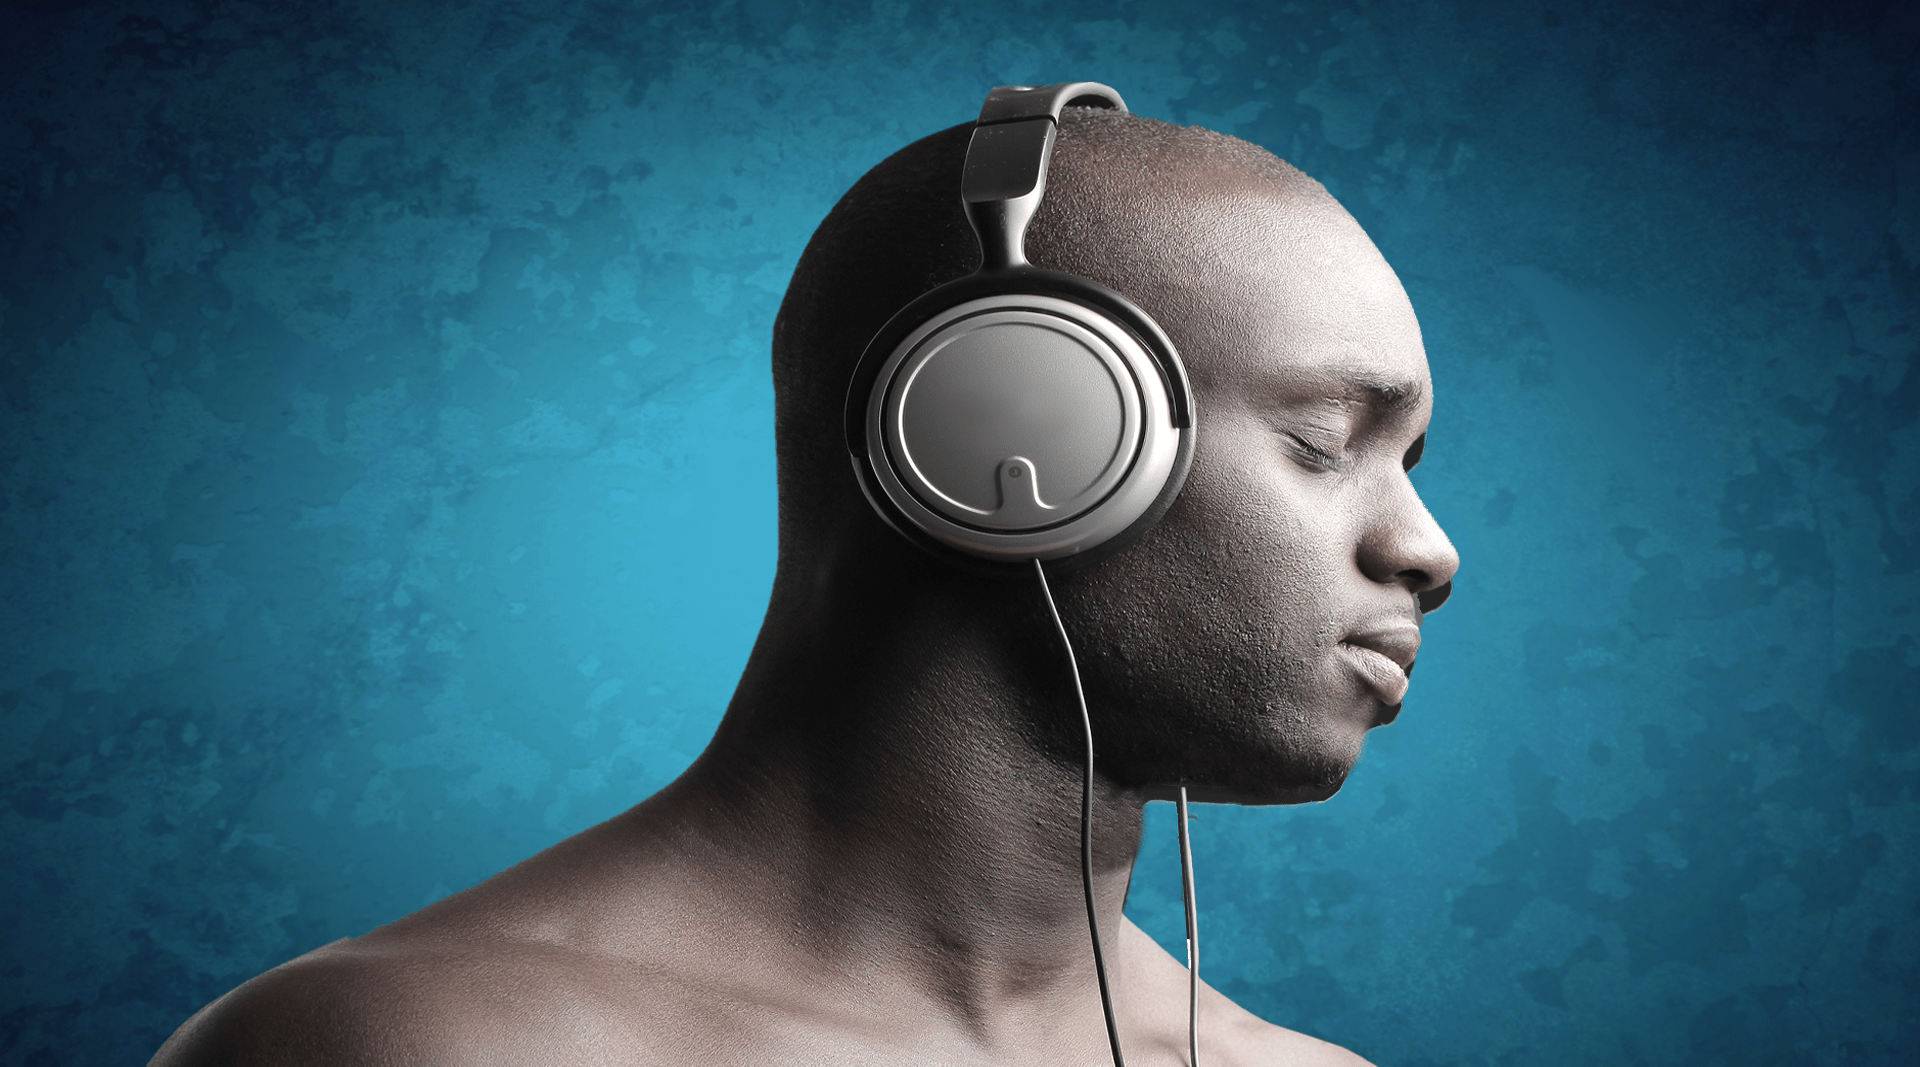
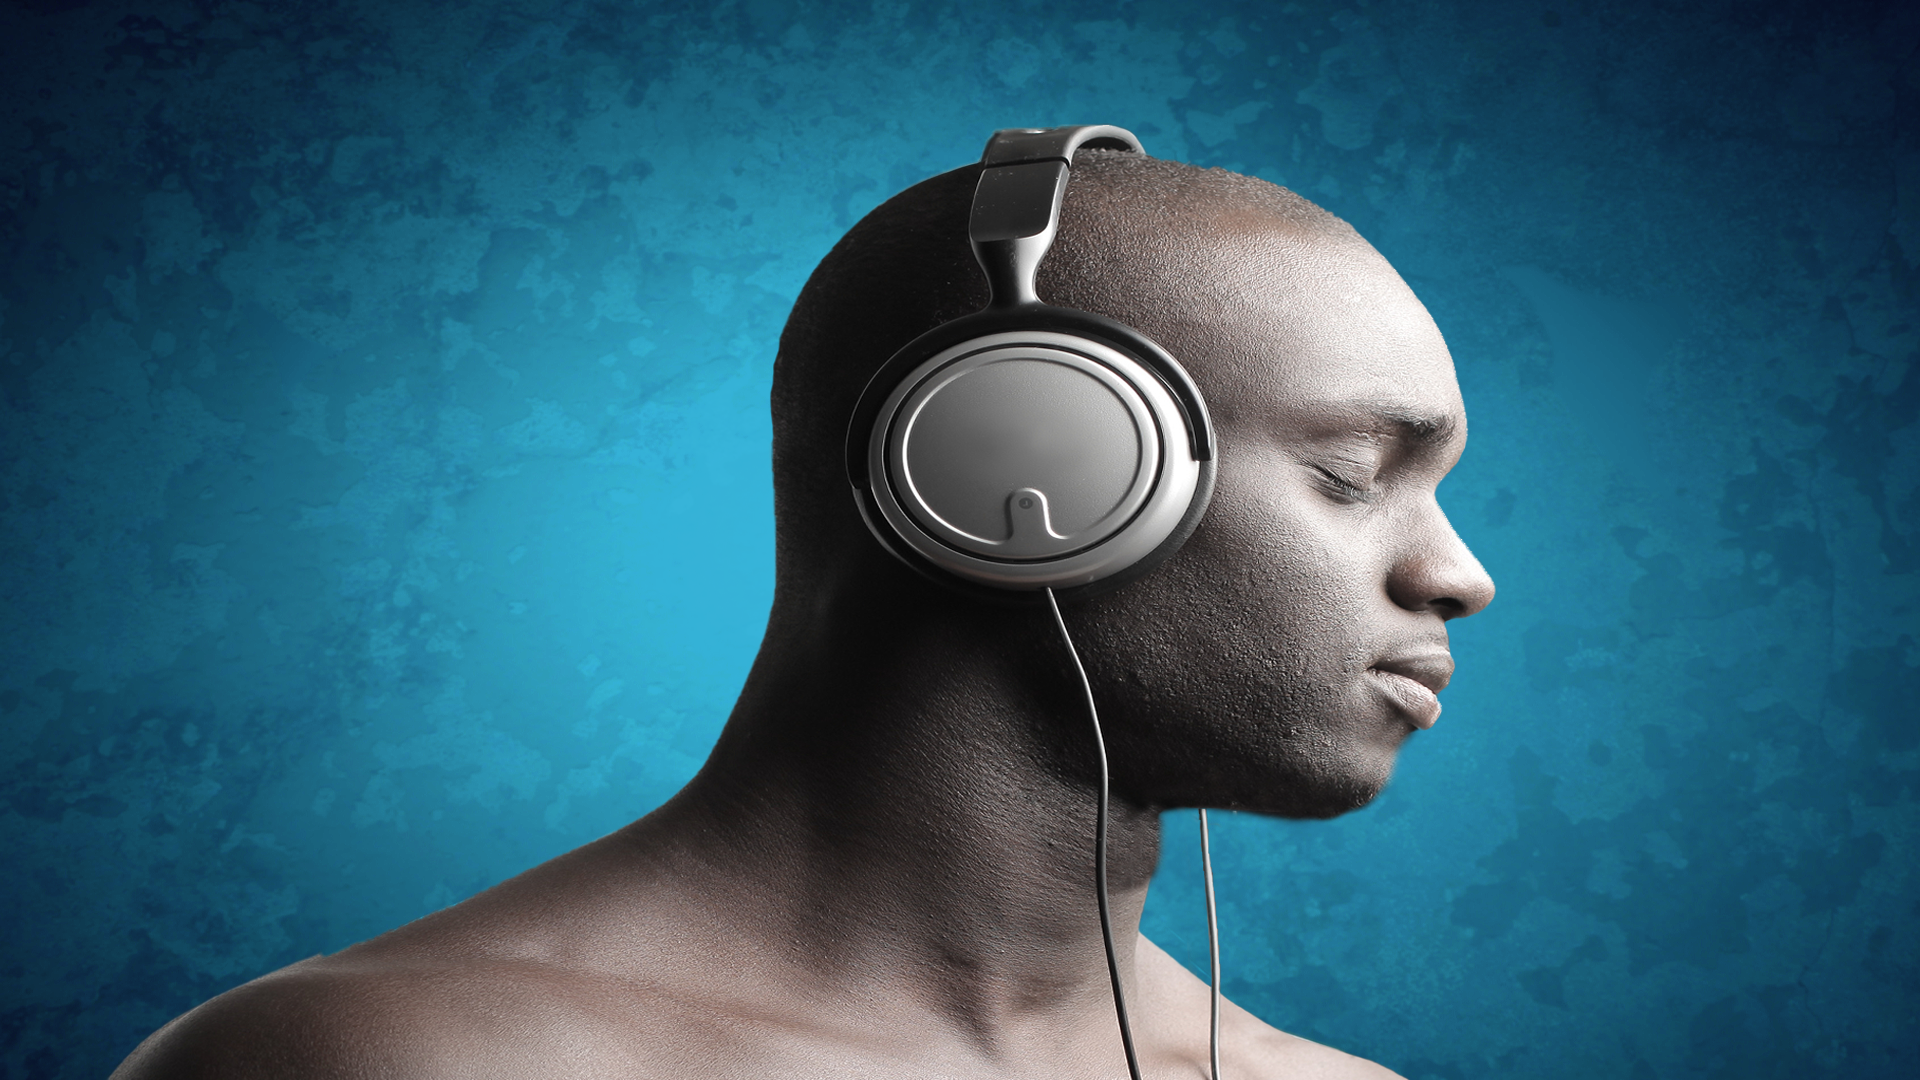
require fname on register, updated hero img

diff --git a/client/js/registerForm.jsx b/client/js/registerForm.jsx
@@ -16,6 +16,7 @@ class RegisterForm extends React.Component {
   }
   render() {
     // const form = document.getElementById("registerForm");
+    // todo require first name
     const onSubmitHandler = (evt) => {
       evt.preventDefault();
 
@@ -28,6 +29,8 @@ class RegisterForm extends React.Component {
           ...errState.errors,
           "Password must have a minimum of 6 characters.",
         ];
+      if (this.state.fname.length < 3)
+        errState.errors = [...errState.errors, "Please enter your first name."];
       if (errState.errors.length) return this.setState(errState);
       const submitFetch = async () =>
         //todo change url
@@ -40,7 +43,7 @@ class RegisterForm extends React.Component {
           body: JSON.stringify({
             email: this.state.regEmail,
             password: this.state.regPassword,
-            first_name: this.state.fname.length ? this.state.fname : null,
+            first_name: this.state.fname,
             last_name: this.state.lname.length ? this.state.lname : null,
           }),
         });
@@ -77,12 +80,13 @@ class RegisterForm extends React.Component {
         </div>
         <div className="name">
           <div>
-            <label htmlFor="fname">First Name</label>
+            <label htmlFor="fname">&#42;First Name</label>
             <input
               type="text"
               name="fname"
               onChange={onChangeHandler}
               value={this.state.fname}
+              required="true"
             />
           </div>
           <div>
@@ -101,6 +105,7 @@ class RegisterForm extends React.Component {
           name="regEmail"
           onChange={onChangeHandler}
           value={this.state.regEmail}
+          required="true"
         />
         <label htmlFor="regPassword">&#42;Password</label>
         <input
@@ -108,10 +113,11 @@ class RegisterForm extends React.Component {
           name="regPassword"
           onChange={onChangeHandler}
           value={this.state.regPassword}
+          required="true"
         />
         <button type="submit">
           <img src="../assets/half-man.png" alt="half-man" />
-          Create Your Account
+          CREATE YOUR ACCOUNT
         </button>
       </form>
     );

diff --git a/client/css/index/index.css b/client/css/index/index.css
@@ -20,24 +20,6 @@ p {
           box-shadow: #0d22339e 2em 3em 3.5em;
 }
 
-@media (max-width: 360px) {
-  .inspire {
-    background-size: 130% 100%;
-  }
-}
-
-@media (min-width: 361px) and (max-width: 480px) {
-  .inspire {
-    background-size: 130% 100%;
-  }
-}
-
-@media (min-width: 481px) and (max-width: 736px) {
-  .inspire {
-    background-size: 130% 100%;
-  }
-}
-
 @media (min-width: 737px) and (max-width: 980px) {
   .inspire {
     background-size: 130% 100%;
@@ -47,6 +29,24 @@ p {
 @media (min-width: 981px) and (max-width: 1280px) {
   .inspire {
     background-size: 130% 100%;
+  }
+}
+
+@media (max-width: 360px) {
+  .inspire {
+    background-image: url("../../assets/man_wearing_headphones-flat-mobile.png");
+  }
+}
+
+@media (min-width: 361px) and (max-width: 480px) {
+  .inspire {
+    background-image: url("../../assets/man_wearing_headphones-flat-mobile.png");
+  }
+}
+
+@media (min-width: 481px) and (max-width: 736px) {
+  .inspire {
+    background-image: url("../../assets/man_wearing_headphones-flat-mobile.png");
   }
 }
 
@@ -74,11 +74,59 @@ p {
   margin-bottom: 1em;
 }
 
+@media (max-width: 360px) {
+  .inspire ul li {
+    color: #00bdf5;
+    text-shadow: 2px 2px #0f495f;
+    font-weight: 700;
+  }
+}
+
+@media (min-width: 361px) and (max-width: 480px) {
+  .inspire ul li {
+    color: #00bdf5;
+    text-shadow: 2px 2px #0f495f;
+    font-weight: 700;
+  }
+}
+
+@media (min-width: 481px) and (max-width: 736px) {
+  .inspire ul li {
+    color: #00bdf5;
+    text-shadow: 2px 2px #0f495f;
+    font-weight: 700;
+  }
+}
+
 .inspire ul li p {
   color: white;
   font-size: 0.7em;
   margin-left: 3.75em;
   margin-top: 0;
+}
+
+@media (max-width: 360px) {
+  .inspire ul li p {
+    color: #f956ff;
+    font-size: 0.8em;
+    font-weight: 500;
+  }
+}
+
+@media (min-width: 361px) and (max-width: 480px) {
+  .inspire ul li p {
+    color: #f956ff;
+    font-size: 0.8em;
+    font-weight: 500;
+  }
+}
+
+@media (min-width: 481px) and (max-width: 736px) {
+  .inspire ul li p {
+    color: #f956ff;
+    font-size: 0.8em;
+    font-weight: 500;
+  }
 }
 
 .inspire ul li::before {

diff --git a/client/css/index/index.scss b/client/css/index/index.scss
@@ -18,8 +18,11 @@ p {
   background-position: center;
   height: 50em;
   box-shadow: #0d22339e 2em 3em 3.5em;
-  @include breakpoint(xxs, xs, s, m, l) {
+  @include breakpoint(m, l) {
     background-size: 130% 100%;
+  }
+  @include breakpoint(xxs, xs, s) {
+    background-image: url("../../assets/man_wearing_headphones-flat-mobile.png");
   }
 
   h2 {
@@ -41,12 +44,22 @@ p {
       color: white;
       font-size: 1.5em;
       margin-bottom: 1em;
+      @include breakpoint(xxs, xs, s) {
+        color: $lightBlue;
+        text-shadow: 2px 2px $teal;
+        font-weight: 700;
+      }
 
       p {
         color: white;
         font-size: 0.7em;
         margin-left: 3.75em;
         margin-top: 0;
+        @include breakpoint(xxs, xs, s) {
+          color: #f956ff;
+          font-size: 0.8em;
+          font-weight: 500;
+        }
       }
       &::before {
         content: "";
@@ -84,7 +97,7 @@ p {
       height: 20em;
       border-radius: 2em;
       margin: 0 auto;
-      border: 2px solid$darkGrey;
+      border: 2px solid $darkGrey;
       box-shadow: #113048 0.35em 1em 2em;
       @include breakpoint(m) {
         height: 15em;

diff --git a/client/css/auth/auth.css b/client/css/auth/auth.css
@@ -197,6 +197,11 @@
   width: max-content;
   cursor: pointer;
   padding: 0;
+  font-size: 1em;
+  -ms-flex-item-align: end;
+      align-self: flex-end;
+  margin-top: 1em;
+  font-weight: 700;
 }
 
 .auth-wrapper .forms .form form button img {
@@ -272,13 +277,5 @@
 .auth-wrapper .forms .form #login a {
   font-size: 0.8em;
   color: #00bdf5;
-}
-
-.auth-wrapper .forms .form #login button {
-  font-size: 1em;
-  -ms-flex-item-align: end;
-      align-self: flex-end;
-  margin-top: 1em;
-  font-weight: 700;
 }
 /*# sourceMappingURL=auth.css.map */

diff --git a/client/css/auth/auth.scss b/client/css/auth/auth.scss
@@ -93,6 +93,10 @@
           width: max-content;
           cursor: pointer;
           padding: 0;
+          font-size: 1em;
+          align-self: flex-end;
+          margin-top: 1em;
+          font-weight: 700;
           img {
             margin-right: 0.5em;
           }
@@ -122,12 +126,6 @@
         a {
           font-size: 0.8em;
           color: $lightBlue;
-        }
-        button {
-          font-size: 1em;
-          align-self: flex-end;
-          margin-top: 1em;
-          font-weight: 700;
         }
       }
     }

diff --git a/database/seeds/users.js b/database/seeds/users.js
@@ -14,6 +14,7 @@ exports.seed = function (knex) {
         isVerified: true,
         first_name: "Jack",
         last_name: "Barry",
+        role: "testing"
       }]);
     });
 };
